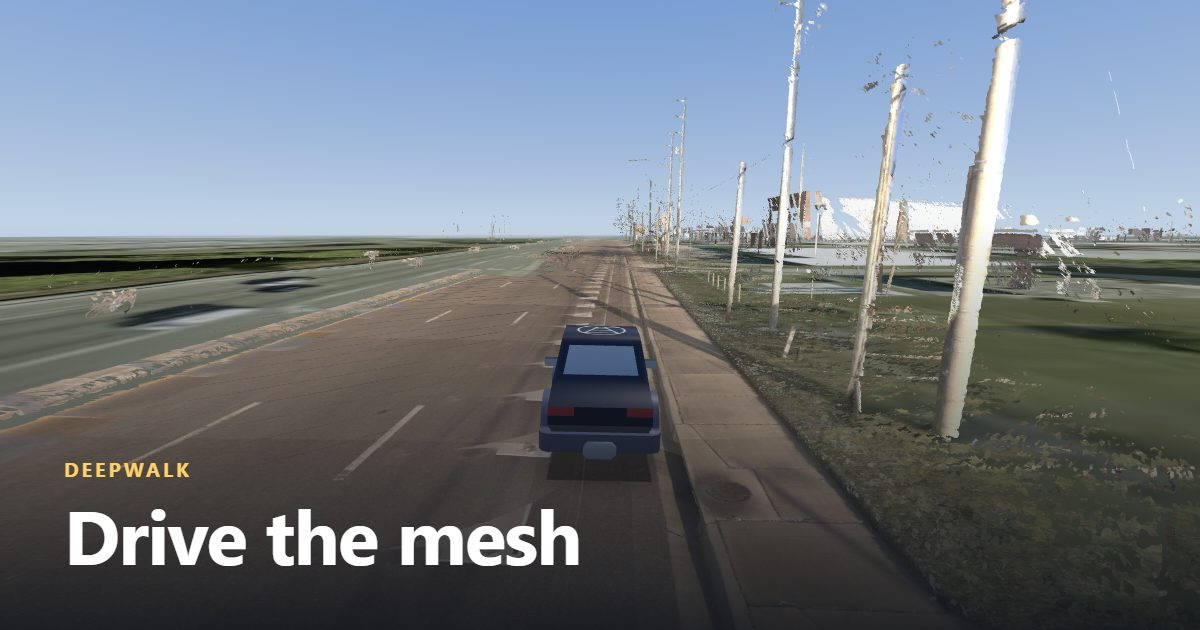
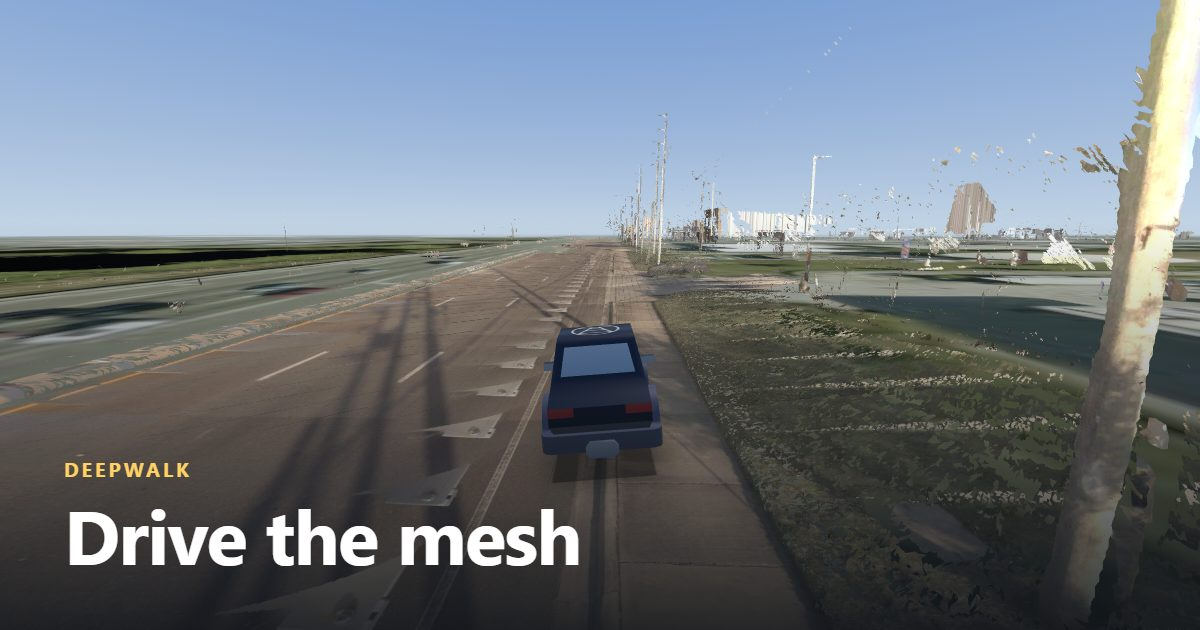
Add the Johnston, Iowa mesh as an unlisted mesh (link only)
An unlisted mesh is not offered in the gallery or as the default; it loads
from ?mesh=<id>. Its 68 routes ship as lines and ids only.

diff --git a/src/start.js b/src/start.js
@@ -88,18 +88,23 @@ export async function start( { params, asset, api } ) {
 	const cfg = await fetch( asset( './meshes.json' ) ).then( r => r.ok ? r.json() : Promise.reject( new Error( `meshes.json ${r.status}` ) ) );
 	const site = cfg.site ?? {}, meshes = cfg.meshes ?? [];
 	if ( ! meshes.length ) throw new Error( 'no meshes are configured' );
+	// An unlisted mesh ("unlisted": true) is never offered: not in the gallery, not as the
+	// default. It loads only for a link that names it (?mesh=<id>). That keeps it off the
+	// site, not secret - its id is in this public file.
+	const listed = meshes.filter( m => ! m.unlisted );
 	const byId = id => meshes.find( m => m.id === id );
 	let mesh = byId( params.get( 'mesh' ) ) ?? null;
+	if ( ! mesh && ! listed.length ) throw new Error( 'no mesh is available without a link' );
 
 	// The test scripts drive an automated browser: nobody to ask, nothing to send, no place taken.
-	if ( navigator.webdriver ) return { mesh: mesh ?? meshes[ 0 ], site, meshCount: meshes.length, name: tidy( params.get( 'name' ), 40 ),
+	if ( navigator.webdriver ) return { mesh: mesh ?? listed[ 0 ], site, meshCount: listed.length, name: tidy( params.get( 'name' ), 40 ),
 		car: isCar( params.get( 'car' ) ) ? params.get( 'car' ) : DEFAULT_CAR };
 
 	const gateOn = !! site.hubspot?.formGuid;
 	flushQueue( site, api );
 	let lead = gateOn ? savedLead() : null;
 	let car = isCar( get( CAR_KEY ) ) ? get( CAR_KEY ) : DEFAULT_CAR;
-	const chosen = mesh ?? ( meshes.length === 1 ? meshes[ 0 ] : null );
+	const chosen = mesh ?? ( listed.length === 1 ? listed[ 0 ] : null );
 
 	return new Promise( resolve => {
 
@@ -140,7 +145,7 @@ export async function start( { params, asset, api } ) {
 			u.searchParams.set( 'mesh', mesh.id ); u.searchParams.delete( 'pick' );
 			history.replaceState( null, '', u );       // the address now names the mesh, so it can be shared
 			box.hidden = true;
-			resolve( { mesh, site, meshCount: meshes.length, name, car } );
+			resolve( { mesh, site, meshCount: listed.length, name, car } );
 			return 'in';
 
 		};
@@ -159,7 +164,7 @@ export async function start( { params, asset, api } ) {
 		$( 'startTitle' ).textContent = site.title || 'Drive the mesh';
 		$( 'startPitch' ).textContent = site.pitch || '';
 		const list = $( 'meshes' );
-		list.hidden = meshes.length < 2;
+		list.hidden = listed.length < 2 || !! mesh?.unlisted;      // a link to an unlisted mesh goes to that mesh, no choosing
 		const pick = m => {
 
 			mesh = m;
@@ -167,7 +172,7 @@ export async function start( { params, asset, api } ) {
 
 		};
 
-		for ( const m of meshes ) {
+		for ( const m of listed ) {
 
 			const card = document.createElement( 'button' );
 			card.type = 'button'; card.className = 'mesh'; card.dataset.id = m.id; card.setAttribute( 'role', 'radio' );
@@ -186,7 +191,7 @@ export async function start( { params, asset, api } ) {
 
 		}
 
-		pick( chosen ?? meshes[ 0 ] );
+		pick( chosen ?? listed[ 0 ] );
 
 		// the car picker
 		const garage = $( 'cars' );

diff --git a/src/main.js b/src/main.js
@@ -592,9 +592,9 @@ function wireBar() {
 	const sceneUrl = mesh.sceneUrl ?? ( API ? `https://www.arcgis.com/home/webscene/viewer.html?url=${encodeURIComponent( `${TILES_BASE}${mesh.id}/tileset.json` )}` : '' );
 	if ( sceneUrl ) { $( 'arcgis' ).href = sceneUrl; $( 'arcgis' ).hidden = false; }
 	const home = new URL( location.href );
-	if ( meshCount > 1 ) home.searchParams.delete( 'mesh' );
+	if ( meshCount > 1 && ! mesh.unlisted ) home.searchParams.delete( 'mesh' );      // an unlisted mesh keeps its link
 	home.searchParams.delete( 'room' ); home.searchParams.set( 'pick', '1' );
-	$( 'change' ).href = home.href; $( 'change' ).textContent = meshCount > 1 ? 'Change mesh or car' : 'Change car'; $( 'change' ).hidden = false;
+	$( 'change' ).href = home.href; $( 'change' ).textContent = meshCount > 1 && ! mesh.unlisted ? 'Change mesh or car' : 'Change car'; $( 'change' ).hidden = false;
 
 	// "Invite": a link to a fresh private room on this mesh. The inviter moves into it too.
 	const invite = $( 'invite' );

diff --git a/README.md b/README.md
@@ -37,12 +37,17 @@ site.privacyUrl                 linked from the lead form when set
 site.hubspot.portalId/formGuid  lead capture; an empty formGuid turns the gate OFF
 site.hubspot.consentText        sent as GDPR consent text if the portal requires it
 site.errorTarget                tile detail; site.tileBudget / tileHardStop: see Capacity
-meshes[]: id, title, provider, place, blurb, thumb, routes?, routeCache?, sceneUrl?
+meshes[]: id, title, provider, place, blurb, thumb?, routes?, routeCache?, sceneUrl?, unlisted?
 ```
 
 **Add a mesh:** add an entry to `meshes[]`, add its tileset URL under the same id to the
 Worker's `TILESETS` secret (and `tilesets.local.json`), run `node test/thumbs.mjs` for its
-thumbnail, push. With two or more meshes the start screen shows the gallery.
+thumbnail, push. With two or more listed meshes the start screen shows the gallery.
+
+**Unlisted meshes:** `"unlisted": true` keeps a mesh out of the gallery and out of the
+default; it loads only from a link that names it (`?mesh=<id>`), and needs no thumbnail.
+This keeps it off the site, not secret: the id is in this public file. The Iowa mesh
+(`johnston`, 2.7 km x 2 km, 68 routes in `static/routes/johnston.geojson`) is unlisted.
 
 **View in ArcGIS Online:** every mesh gets this button. It opens ArcGIS Online's Scene
 Viewer with the mesh as a 3D Tiles layer:
